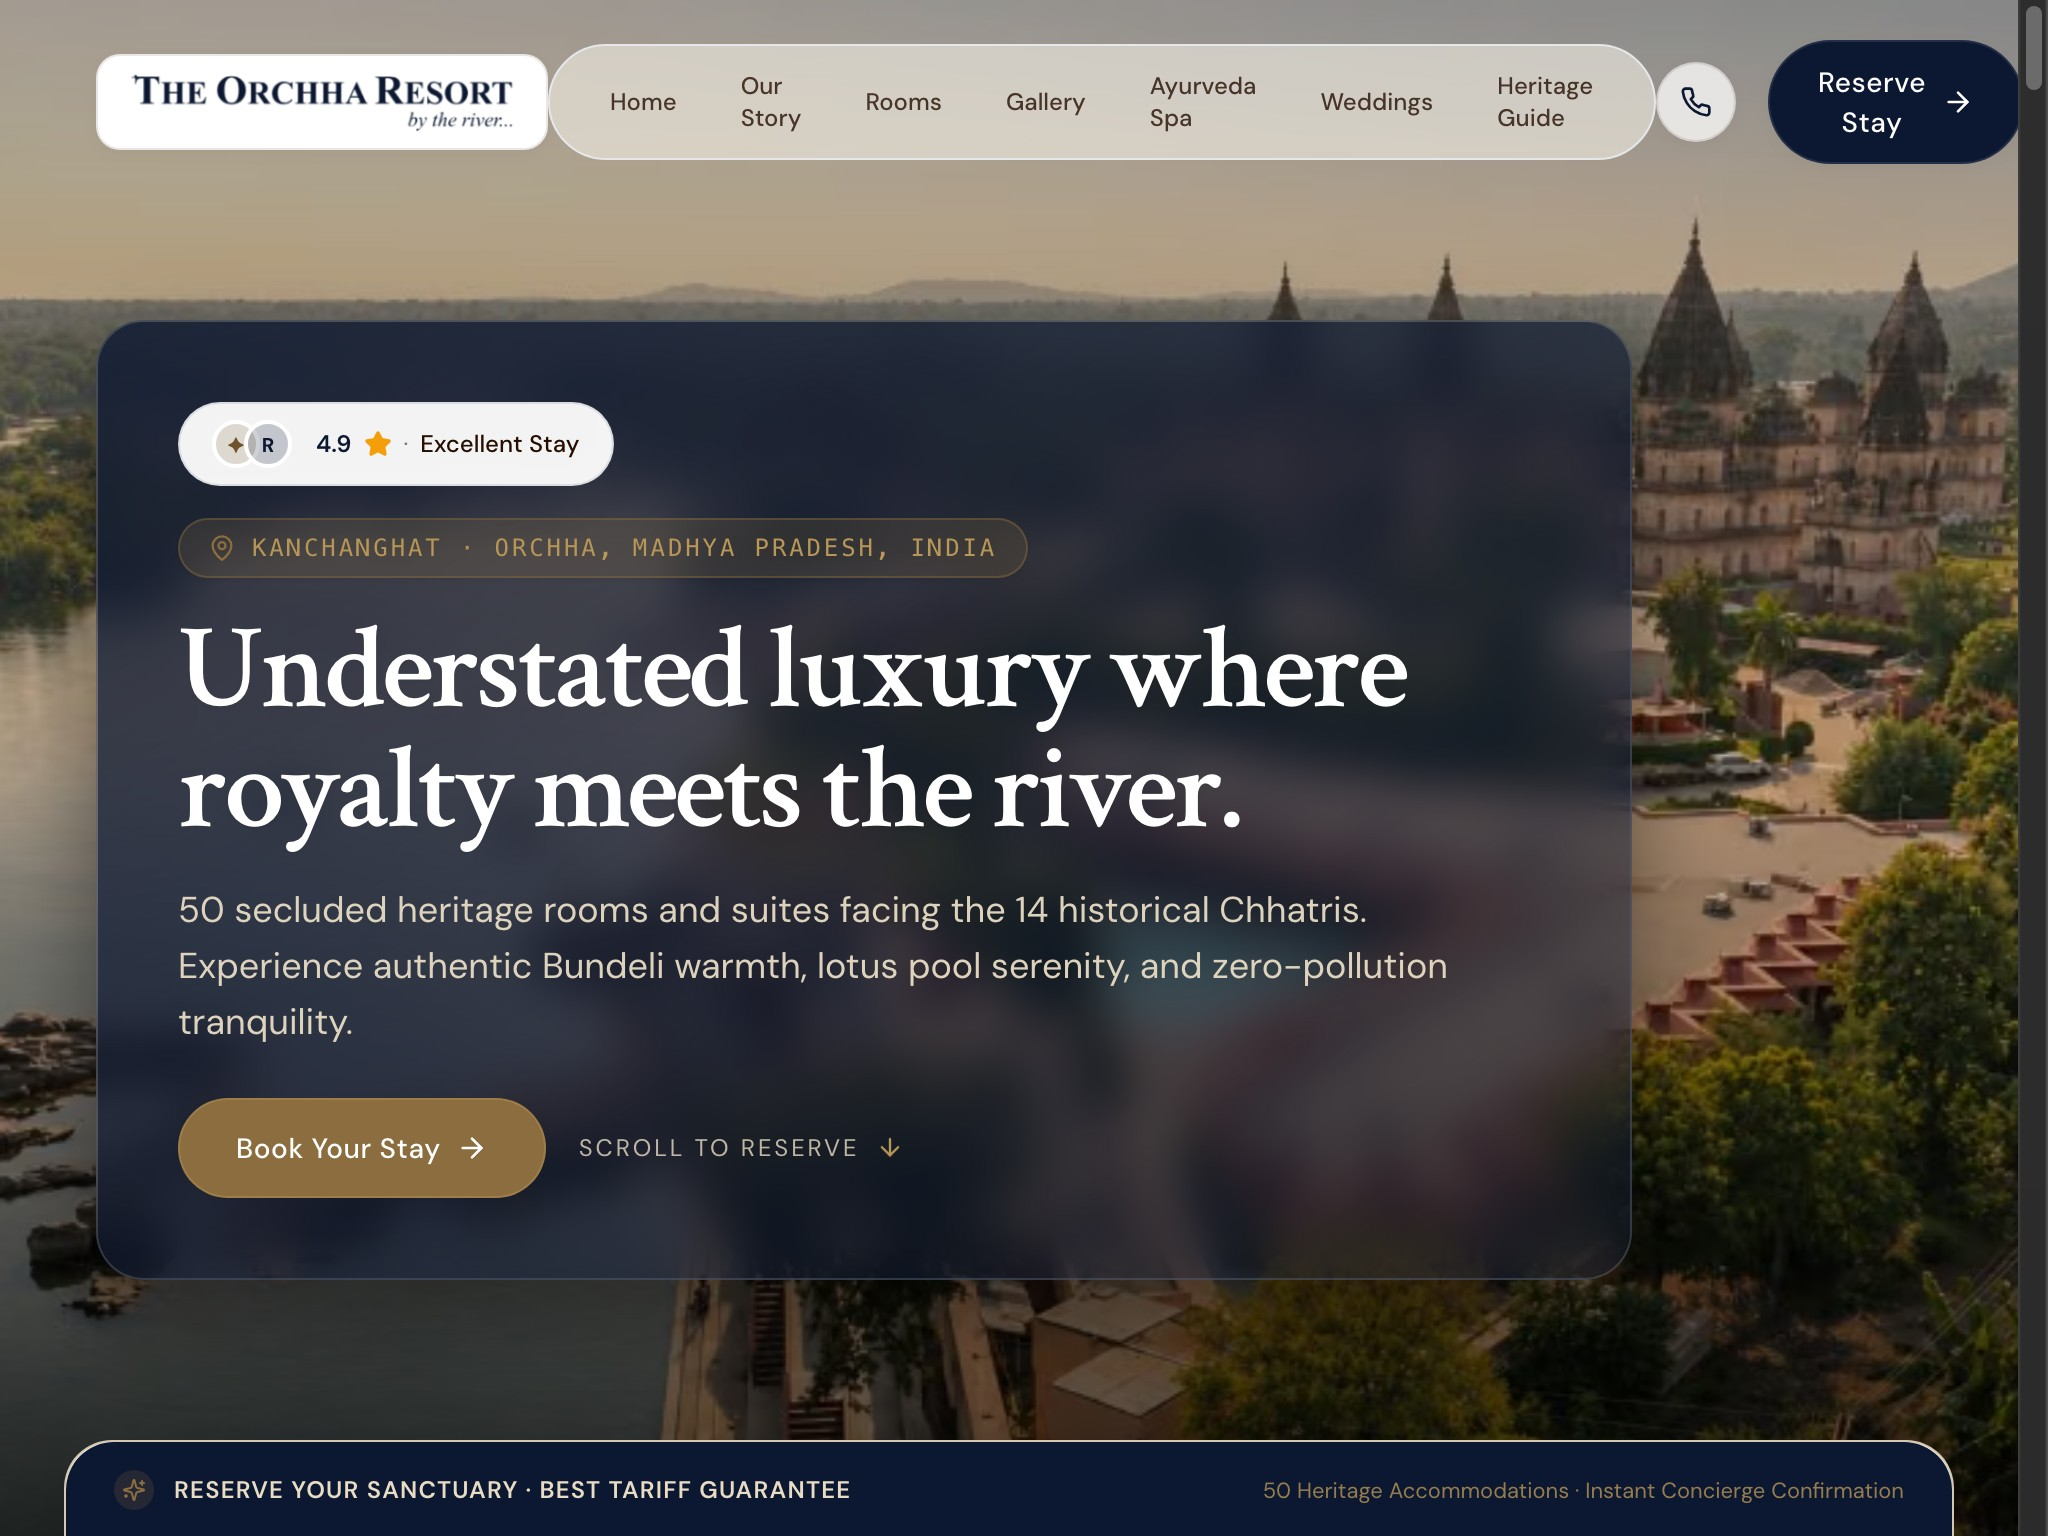
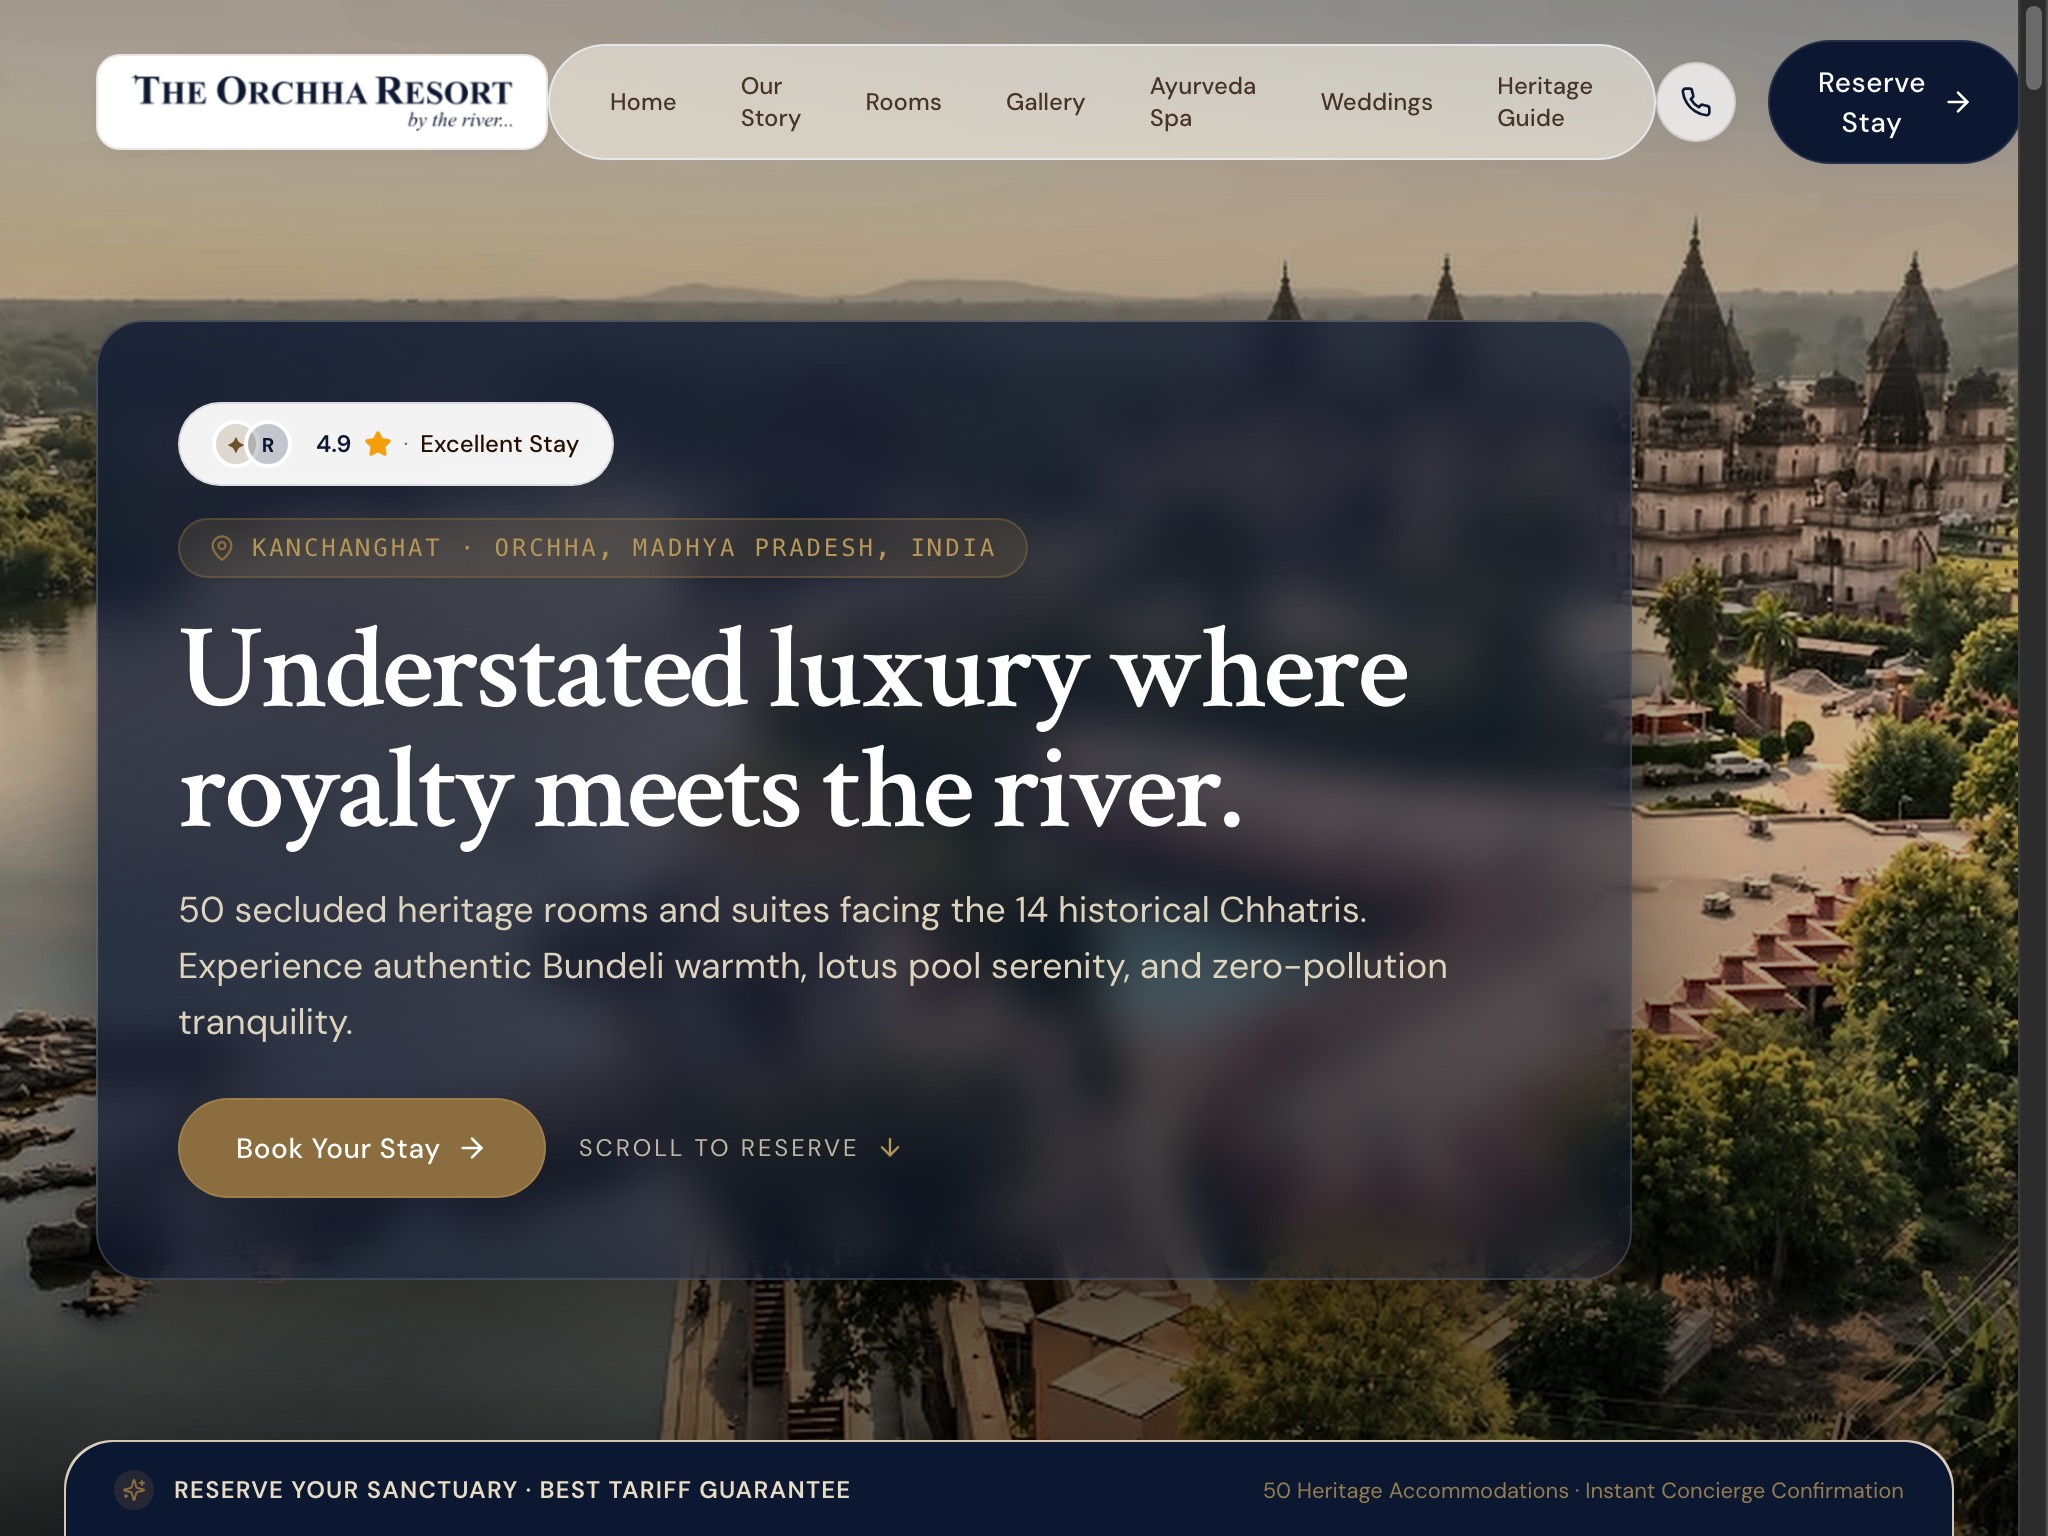
fix(hero): enhance hero aerial photograph to 4K UHD and enable high-density Next.js responsive sizing

diff --git a/src/lib/assets.ts b/src/lib/assets.ts
@@ -61,12 +61,12 @@ export const RESORT_ASSETS: Record<string, ResortAsset> = {
   heroDesktop: {
     id: "hero-desktop",
     category: "hero",
-    title: "The Orchha Resort Aerial River Panorama & Royal Cenotaphs at Golden Hour",
-    description: "Breathtaking aerial panorama of The Orchha Resort along the Betwa River with the 14 Royal Chhatris in the evening golden light",
+    title: "The Orchha Resort Aerial River Panorama & Royal Cenotaphs at Golden Hour (4K UHD)",
+    description: "Breathtaking high-definition aerial panorama of The Orchha Resort along the Betwa River with the 14 Royal Chhatris in the evening golden light",
     src: "/images/resort/hero/hero-aerial-chhatris-river.jpg",
     aspectRatio: "16:9",
-    width: 1024,
-    height: 576,
+    width: 3840,
+    height: 2160,
     alt: "Aerial panorama of The Orchha Resort nestled along the Betwa River with the 14 Royal Cenotaphs at golden hour",
     isStagingPlaceholder: false,
     targetPlacement: "Homepage Hero Section (Desktop)",
@@ -75,12 +75,12 @@ export const RESORT_ASSETS: Record<string, ResortAsset> = {
   heroMobile: {
     id: "hero-mobile",
     category: "hero",
-    title: "The Orchha Resort Aerial River Panorama & Royal Cenotaphs at Golden Hour",
-    description: "Breathtaking aerial panorama of The Orchha Resort along the Betwa River with the 14 Royal Chhatris in the evening golden light",
+    title: "The Orchha Resort Aerial River Panorama & Royal Cenotaphs at Golden Hour (4K UHD)",
+    description: "Breathtaking high-definition aerial panorama of The Orchha Resort along the Betwa River with the 14 Royal Chhatris in the evening golden light",
     src: "/images/resort/hero/hero-aerial-chhatris-river.jpg",
     aspectRatio: "16:9",
-    width: 1024,
-    height: 576,
+    width: 3840,
+    height: 2160,
     alt: "Aerial panorama of The Orchha Resort nestled along the Betwa River with the 14 Royal Cenotaphs at golden hour",
     isStagingPlaceholder: false,
     targetPlacement: "Homepage Hero Section (Mobile)",

diff --git a/src/components/hero/HeroScrollBookingSequence.tsx b/src/components/hero/HeroScrollBookingSequence.tsx
@@ -58,6 +58,8 @@ export function HeroScrollBookingSequence({ className }: HeroScrollBookingSequen
               scale,
               transformOrigin: "center 42%",
               willChange: "transform",
+              backfaceVisibility: "hidden",
+              WebkitBackfaceVisibility: "hidden",
             }}
             className="relative w-full h-full transform-gpu"
           >
@@ -67,8 +69,12 @@ export function HeroScrollBookingSequence({ className }: HeroScrollBookingSequen
               fill
               priority
               sizes="100vw"
-              quality={90}
+              quality={95}
               className="object-cover object-center"
+              style={{
+                backfaceVisibility: "hidden",
+                WebkitBackfaceVisibility: "hidden",
+              }}
             />
 
             {/* Dynamic Darkening Vignette Layer - Balanced contrast for typography while preserving river and sunset colors */}

diff --git a/next.config.ts b/next.config.ts
@@ -14,7 +14,7 @@ const nextConfig: NextConfig = {
   },
   images: {
     formats: ["image/avif", "image/webp"],
-    deviceSizes: [640, 750, 828, 1080, 1200, 1920],
+    deviceSizes: [640, 750, 828, 1080, 1200, 1920, 2048, 2560, 3840],
     imageSizes: [16, 32, 48, 64, 96, 128, 256, 384],
     remotePatterns: [
       {
